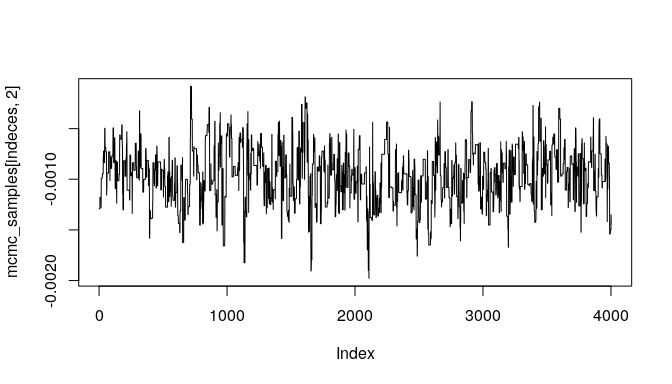
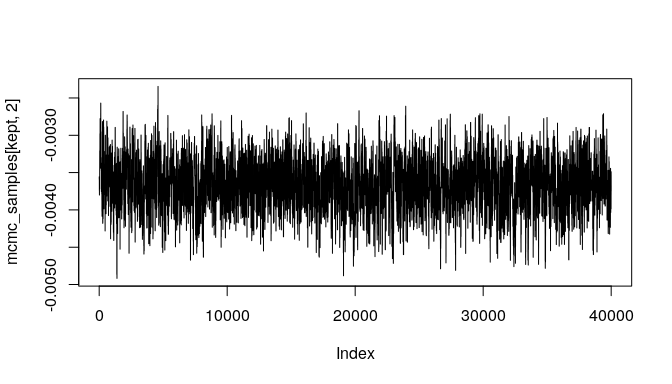
README edits

diff --git a/README.md b/README.md
@@ -1,10 +1,29 @@
-Chronological Uncertainty Propagation Toolkit
-================
 
 <!-- README.md is generated from README.Rmd. Please edit that file -->
 # The chronup R package
 
 Chronological uncertainty poses a ubiquitous challenge for sciences of the past. Nearly all of the observations we can make about past people, animals, plants, objects, and events need to be dated, and those dates are usually uncertain because the chronometric methods available come with uncertainty. Some methods come with relatively small uncertainties, like dendrochronology, which can yield age estimates with single-year errors. Others come with much higher levels of uncertainty, like radiocarbon dating, which can yield age estimates with errors ranging from decades to centuries or more. These uncertainties have long been acknowledged by the scientific community but are usually left out of formal analyses. As a result, many studies of the past contain a hidden bias. Recently, some effort has been directed toward understanding the impact that chronological uncertainty has on quantitative methods commonly used in fields like archaeology and palaeoclimatology and, consequently, the impact it has on our current understanding of the past. At the same time, statistical approaches with better handling of chronological uncertainty are being investigated and developed. One methodological avenue actively being explored involves uncertainty (error) propagation, and the R package chronup is being developed to provide access to the statistical tools produced as part of that ongoing research.
+
+# Relevant research
+
+There are a few published papers so far that are directly relevant to this package. They are as follows:
+
+-   Stewart, M., Carleton, W., Groucutt, H. (2021) [DOI: 10.1038/s41467-021-21201-8](https://dx.doi.org/10.1038/s41467-021-21201-8)
+
+-   Carleton W. and Groucutt, H. (2020) [DOI: 10.1177/0959683620981700](https://dx.doi.org/10.1177/0959683620981700)
+
+-   Carleton, W. (2020) [DOI: 10.1002/jqs.3256](https://onlinelibrary.wiley.com/doi/full/10.1002/jqs.3256)
+
+# Installation
+
+This package is currently in development and at a pre-release stage. Still, it can be installed and used in R as follows:
+
+    library(devtools)
+    install_github("wccarleton/chronup")
+
+If you find bugs, have code suggestions, or feature requests, please contact me at <ccarleton@protonmail.com>. Once the package is ready for initial release, I will use GitHub's formal issue tracking system to handle bugs and feature requests.
+
+Anyone interested in contributing can also feel free to contact me. Help would certainly be appreciated!
 
 # Basic workflow
 
@@ -40,7 +59,7 @@ times <- 5000:4001
 beta <- -0.004
 process <- exp(1:nintervals * beta)
 nevents <- 200
-nsamples <- 10000
+nsamples <- 50000
 sim_sequences <- simulate_event_counts(process = process,
                             times = times,
                             nevents = nevents,
@@ -64,7 +83,7 @@ plot(y = process,
     ylab = "Process Level")
 ```
 
-<img src="man/figures/README-unnamed-chunk-4-1.png" width="100%" />
+<img src="man/figures/README-unnamed-chunk-3-1.png" width="100%" />
 
 As we would expect, the process is an exponential function that decays at the rate 'beta'.
 
@@ -79,7 +98,7 @@ plot(y = sim_sequences$counts$Count,
     ylab = "Count")
 ```
 
-<img src="man/figures/README-unnamed-chunk-5-1.png" width="100%" />
+<img src="man/figures/README-unnamed-chunk-4-1.png" width="100%" />
 
 Lastly, we can plot the joint-density of event count and time in a way that includes the uncertainties involved. The chronup package provides a plotting function, chronup::plot\_count\_ensemble, for this purpose. It takes two main arguments, 'count\_ensemble' and 'times'. The first of these is going to be the count ensemble matrix output by the simulation function we just used, and the second will be another output from that function called 'new\_times'. The latter is a vector of time-stamps that correspond to the rows of the count ensemble matrix. These will be different than the original time-stamps passed to the simulation function as the argument 'times'. The differences arise because the chronological uncertainty associated with individual event times ultimately means that the span of probable time-stamps covered by the simulated event count sequence is longer than the span covered by the original event generating process---a phenomenon sometimes called 'temporal spread'.
 
@@ -88,11 +107,11 @@ plot_count_ensemble(count_ensemble = sim_sequences$count_ensemble,
                     times = sim_sequences$new_times)
 ```
 
-<img src="man/figures/README-unnamed-chunk-6-1.png" width="100%" />
+<img src="man/figures/README-unnamed-chunk-5-1.png" width="100%" />
 
     #> NULL
 
-In this plot, chronological uncertainty is captured by a heat map. The colours in the heatmap indicate the relative probability of count-time pairings based on the sample represented by the count ensemble. Warmer colours indicate higher relative probabilities whereas cooler colours indicate lower relative probabilities. So, it is important not to allow your eye to be fooled into following only the peaks and troughs of the plot in the y-axis dimension. The z-axis is crucial and it is represented in the plot by colour. We can see the overall shape of the event generating process represented in the plot, but it is not a perfect representation. There are features in the plot that do not reflect the true underlying process. This plot represents both event counts *and* chronological uncertainty about individual event times. Still, it provides useful visual information, like the fact that there is a relatively high probability (hot colours) that the count is exactly one around 5000--4800 BP, which is what we would expect given that the highest part of the exponential function used to produce the data is at 5000 BP. At the same time, though, the probability that the count is ~3--5 in that interval is relatively low. This is also something that we would expect because the sample size is small---i.e., we only drew 100 events from the process at an annual resolution over a thousand year period, so the probability that a large number of those samples co-occurred in time often enough to create high y-axis peaks in this plot is likewise small.
+In this plot, chronological uncertainty is captured by a heat map. The colours in the heatmap indicate the relative probability of count-time pairings based on the sample represented by the count ensemble. Warmer colours indicate higher relative probabilities whereas cooler colours indicate lower relative probabilities. So, it is important not to allow your eye to be fooled into following only the peaks and troughs of the plot in the y-axis dimension. The z-axis is crucial and it is represented in the plot by colour. We can see the overall shape of the event generating process represented in the plot, but it is not a perfect representation. There are features in the plot that do not reflect the true underlying process. This plot represents both event counts *and* chronological uncertainty about individual event times. Still, it provides useful visual information, like the fact that there is a relatively high probability (hot colours) that the count is exactly one around 5000--4800 BP, which is what we would expect given that the highest part of the exponential function used to produce the data is at 5000 BP. At the same time, though, the probability that the count is &gt;5 in that interval is relatively low. This is also something that we would expect because the sample size is small---i.e., we only drew 100 events from the process at an annual resolution over a thousand year period, so the probability that a large number of those samples co-occurred in time often enough to create high y-axis peaks in this plot is likewise small.
 
 With the simulated data in hand, and the plots showing what we expected to see, we can now run a simple chronup regression. The package provides a function for that purpose called chronup::regress. The regression function is Bayesian and uses an MCMC approach to uncertainty propagation. An MCMC approach to uncertainty effectively just means sampling probable values for the data, and then fitting a regression model to the samples to produce posterior distributions for the model parameters that reflect the variability in the samples. In this case, we are focusing on variability derived from chronological uncertainty about event times, but in general the sampling process could be used to incorporate any kind of uncertainty as long as we have representative distributions to draw samples from. It is also worth highlighting here that for this demonstration we are only looking at uncertainty in the event counts, the dependent variable.
 
@@ -120,9 +139,9 @@ X <- matrix(
         nrow = n)
 
 dim(Y)
-#> [1]  1301 10000
+#> [1]  1372 50000
 dim(X)
-#> [1]  1301 20000
+#> [1]   1372 100000
 
 Y[1:5, 1:10]
 #>      [,1] [,2] [,3] [,4] [,5] [,6] [,7] [,8] [,9] [,10]
@@ -181,43 +200,43 @@ mcmc_samples <- regress(Y = Y,
 #> 
 
 head(mcmc_samples)
-#>           [,1]          [,2]
-#> [1,] -1.320313 -0.0009553337
-#> [2,] -1.320313 -0.0009553337
-#> [3,] -1.320313 -0.0009553337
-#> [4,] -1.246605 -0.0008893117
-#> [5,] -1.246605 -0.0008893117
-#> [6,] -1.246605 -0.0008893117
+#>           [,1]         [,2]
+#> [1,] -1.228793 -0.001180995
+#> [2,] -1.228793 -0.001180995
+#> [3,] -1.228793 -0.001180995
+#> [4,] -1.228793 -0.001180995
+#> [5,] -1.228793 -0.001180995
+#> [6,] -1.216770 -0.001140104
 ```
 
 When 'adapt' is set to 'FALSE', the function returns the MCMC chains. With enough iterations, the chains will likely contain good samples of the posterior distributions corresponding to the model's parameters. These can be inspected further with standard tools, including those in the 'coda' MCMC package. Here will will simply plot the chains as line-plots and then plot some density estimates to get a quick look at the results:
 
 ``` r
 burnin <- floor(dim(mcmc_samples)[1] * 0.2)
-indeces <- seq(burnin, dim(mcmc_samples)[1], 1)
+kept <- seq(burnin, dim(mcmc_samples)[1], 1)
 
-plot(mcmc_samples[indeces, 1], type = "l")
+plot(mcmc_samples[kept, 1], type = "l")
 ```
 
-<img src="man/figures/README-unnamed-chunk-11-1.png" width="100%" />
+<img src="man/figures/README-unnamed-chunk-10-1.png" width="100%" />
 
 ``` r
-plot(mcmc_samples[indeces, 2], type = "l")
+plot(mcmc_samples[kept, 2], type = "l")
 ```
 
-<img src="man/figures/README-unnamed-chunk-11-2.png" width="100%" />
+<img src="man/figures/README-unnamed-chunk-10-2.png" width="100%" />
 
 ``` r
-plot(density(mcmc_samples[indeces, 1]))
+plot(density(mcmc_samples[kept, 1]))
 ```
 
-<img src="man/figures/README-unnamed-chunk-11-3.png" width="100%" />
+<img src="man/figures/README-unnamed-chunk-10-3.png" width="100%" />
 
 ``` r
-plot(density(mcmc_samples[indeces, 2]))
+plot(density(mcmc_samples[kept, 2]))
 ```
 
-<img src="man/figures/README-unnamed-chunk-11-4.png" width="100%" />
+<img src="man/figures/README-unnamed-chunk-10-4.png" width="100%" />
 
 As the plots show, the chains are not fully stable and the density estimates are biased, but these indicators of poor convergence are the result of too few MCMC iterations. With more iterations, the chains will stabilize and well-behaved density estimates can be obtained.
 
@@ -226,11 +245,11 @@ Still, it is important to highlight that the posterior estimate for the key rate
 The bias can be reduced further if we limit the analysis to the temporal span of the original simulation process. In practice, a similar subsetting of the data could be justified by gathering data outside a given temporal interval of analytical interest and/or limiting analyses to a subinterval of the available data. It may be a debatable decision in any given case and more research is required. Nevertheless, for the sake of this demonstration, the code below subsets the simulated data, limiting the analysis to the original temporal interval (5000--4001 BP):
 
 ``` r
-indeces <- which(sim_sequences$new_times <= 5000 &
-                sim_sequences$new_times >= 4001)
+subinterval <- which(sim_sequences$new_times <= 5000 &
+                    sim_sequences$new_times >= 4001)
 
-mcmc_samples_adapt <- regress(Y = Y[indeces,],
-                            X = X[indeces,],
+mcmc_samples_adapt <- regress(Y = Y[subinterval,],
+                            X = X[subinterval,],
                             model = "pois",
                             startvals = startvals,
                             scales = startscales,
@@ -245,8 +264,8 @@ burnin <- floor(dim(mcmc_samples_adapt$scales)[1] * 0.2)
 indeces <- seq(burnin, dim(mcmc_samples_adapt$scales)[1], 1)
 new_startscales <- colMeans(mcmc_samples_adapt$scales[indeces,])
 
-mcmc_samples <- regress(Y = Y[indeces,],
-                        X = X[indeces,],
+mcmc_samples <- regress(Y = Y[subinterval,],
+                        X = X[subinterval,],
                         model = "pois",
                         startvals = new_startvals,
                         scales = new_startscales,
@@ -255,39 +274,39 @@ mcmc_samples <- regress(Y = Y[indeces,],
 
 head(mcmc_samples)
 #>           [,1]         [,2]
-#> [1,] 0.4106506 -0.003233014
-#> [2,] 0.2986423 -0.003068006
-#> [3,] 0.2986423 -0.003068006
-#> [4,] 0.2986423 -0.003068006
-#> [5,] 0.2986423 -0.003068006
-#> [6,] 0.2986423 -0.003068006
+#> [1,] 0.6549716 -0.003650824
+#> [2,] 0.6549716 -0.003650824
+#> [3,] 0.6549716 -0.003650824
+#> [4,] 0.6549716 -0.003650824
+#> [5,] 0.6549716 -0.003650824
+#> [6,] 0.6549716 -0.003650824
 ```
 
 As the plots below indicate, the initial bias is significantly reduced and the true parameter estimate ('beta', which was set to -0.004 above) is within the 95% credible interval of the estimated posterior distribution. Again, many more MCMC iterations will be required in order to arrive at good estimates of posterior distributions for the model parameters. The additional iterations will come from increasing the number of randomly sampled probable event count sequences. As a result, an even better estimate of the overall chronological uncertainty in the data can be obtained and then propagated up to the regression model parameter estimates. Additionally, using a Negative-Binomial (NB-REC) model instead would further reduce the bias, especially if the complete time domain of the event count ensemble is being analyzed instead of a subinterval.
 
 ``` r
 burnin <- floor(dim(mcmc_samples)[1] * 0.2)
-indeces <- seq(burnin, dim(mcmc_samples)[1], 1)
+kept <- seq(burnin, dim(mcmc_samples)[1], 1)
 
-plot(mcmc_samples[indeces, 1], type = "l")
+plot(mcmc_samples[kept, 1], type = "l")
 ```
 
-<img src="man/figures/README-unnamed-chunk-13-1.png" width="100%" />
+<img src="man/figures/README-unnamed-chunk-12-1.png" width="100%" />
 
 ``` r
-plot(mcmc_samples[indeces, 2], type = "l")
+plot(mcmc_samples[kept, 2], type = "l")
 ```
 
-<img src="man/figures/README-unnamed-chunk-13-2.png" width="100%" />
+<img src="man/figures/README-unnamed-chunk-12-2.png" width="100%" />
 
 ``` r
-plot(density(mcmc_samples[indeces, 1]))
+plot(density(mcmc_samples[kept, 1]))
 ```
 
-<img src="man/figures/README-unnamed-chunk-13-3.png" width="100%" />
+<img src="man/figures/README-unnamed-chunk-12-3.png" width="100%" />
 
 ``` r
-plot(density(mcmc_samples[indeces, 2]))
+plot(density(mcmc_samples[kept, 2]))
 ```
 
-<img src="man/figures/README-unnamed-chunk-13-4.png" width="100%" />
+<img src="man/figures/README-unnamed-chunk-12-4.png" width="100%" />
